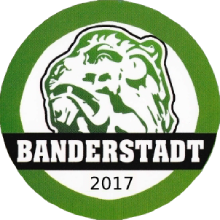
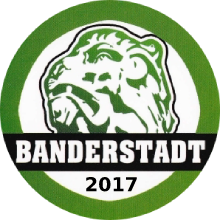
Lineups#new UI update (#35)
* Update lineups#new UI, add modules images

* Update team logo images

diff --git a/app/assets/stylesheets/application.scss b/app/assets/stylesheets/application.scss
@@ -15,27 +15,19 @@
 @import "bootstrap";
 @import "multi-select";
 @import "bootstrap-toggle";
-@import "teams";
-@import "welcome";
-@import "links";
-@import "tours";
+
 @import "articles";
+@import "lineups";
+@import "links";
+@import "teams";
+@import "tours";
+@import "welcome";
 
 body, html {
   height: 100%;
   width: 100%;
   margin: 0;
   padding: 0;
-}
-
-.disqualified {
-  background-color: grey;
-  opacity: 0.5;
-}
-
-.injured {
-  background-color: red;
-  opacity: 0.5;
 }
 
 .center {
@@ -106,18 +98,22 @@ body, html {
   }
 }
 
+.disqualified, .injured {
+  opacity: 0.7;
+}
+
 .clr-success {
   background-color: #66bb6a;
 }
 
-.clr-danger {
+.clr-danger, .injured {
   background-color: #ef5350;
 }
 
-.clr-warning {
+.clr-warning, .problematic {
   background-color: #ffee58;
 }
 
-.clr-secondary {
+.clr-secondary, .disqualified {
   background-color: #bdbdbd;
 }

diff --git a/app/assets/stylesheets/lineups.scss b/app/assets/stylesheets/lineups.scss
@@ -1,0 +1,30 @@
+#new_lineup {
+  display: grid;
+  grid-template-columns: 35% auto;
+  grid-column-gap: 25px;
+}
+
+#ms-lineup_player_ids {
+  width: 100%;
+}
+
+.module-image {
+  margin-top: 30px;
+  width: 100%;
+
+  img {
+    width: 100%;
+    border-radius: 10px;
+  }
+
+  .module-img {
+    display: none;
+  }
+}
+
+.lineup-submit-btn {
+  grid-column: span 2;
+  .btn {
+    width: 100%;
+  }
+}

diff --git a/app/services/team_lineups/creator.rb b/app/services/team_lineups/creator.rb
@@ -14,13 +14,16 @@ module TeamLineups
     end
 
     def call
-      errors.add(:base, "Team should have at least #{AMOUNT} players") if players.size < AMOUNT
-      errors.add(:base, "Max amount is  #{AMOUNT + RESERVED} players") if players.size > AMOUNT + RESERVED
+      errors.add(:base, "Team should have #{full_squad} players") if players.size != full_squad
       lineup.tour_id = active_tour&.id
       lineup.save if errors.empty?
     end
 
     private
+
+    def full_squad
+      AMOUNT + RESERVED
+    end
 
     def active_tour
       Tour.set_lineup.first

diff --git a/app/controllers/lineups_controller.rb b/app/controllers/lineups_controller.rb
@@ -5,6 +5,7 @@ class LineupsController < ApplicationController
 
   def new
     @lineup = Lineup.new
+    @modules = TeamModule.all
   end
 
   def create
